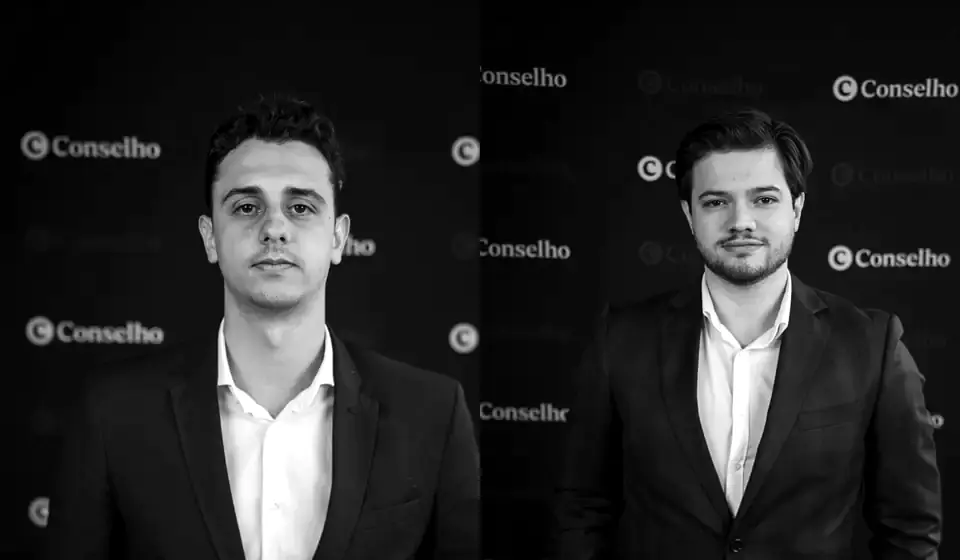
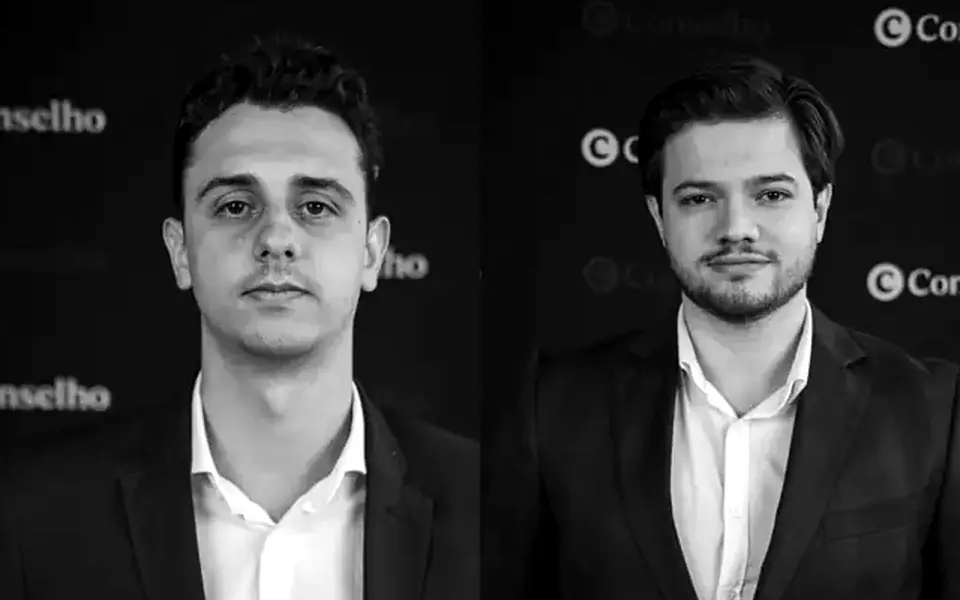
diagnostico: corrige altura da foto e recorte do time

diff --git a/diagnostico/index.html b/diagnostico/index.html
@@ -22,7 +22,7 @@ body{background:var(--bg);color:var(--ink);font-family:'Inter Tight',system-ui,-
 .bar i{display:block;width:12%;height:100%;background:var(--ink);border-radius:40px}
 h1{font-weight:800;font-size:31px;line-height:1.05;letter-spacing:-.02em;text-transform:uppercase}
 mark{background:var(--hi);color:var(--ink);padding:0 .12em;box-decoration-break:clone;-webkit-box-decoration-break:clone}
-.hero{width:100%;aspect-ratio:960/560;border-radius:14px;display:block;object-fit:cover;background:#ccc}
+.hero{width:100%;aspect-ratio:960/600;height:auto;border-radius:14px;display:block;object-fit:cover;background:#ccc}
 h2{font-weight:500;font-size:18px;line-height:1.45;color:#1d1c1a}
 h2 b{font-weight:800}
 .proof{width:100%;border:1px solid var(--line);border-radius:12px;padding:12px 14px;font-size:14px;line-height:1.45;text-align:left;background:#fff}
@@ -46,7 +46,7 @@ footer a{color:var(--mute)}
 
   <h1>Descubra onde sua mentoria <mark>perde venda</mark></h1>
 
-  <img class="hero" src="/diagnostico/time.webp" alt="Time do Grupo Zentra" width="960" height="560" fetchpriority="high">
+  <img class="hero" src="/diagnostico/time.webp" alt="Time do Grupo Zentra" width="960" height="600" fetchpriority="high">
 
   <h2>Uma conversa com a <b>operação comercial da Zentra</b> pra mapear o gargalo da sua mentoria: <b>tráfego</b>, <b>atendimento</b> ou <b>checkout</b>.</h2>
 
